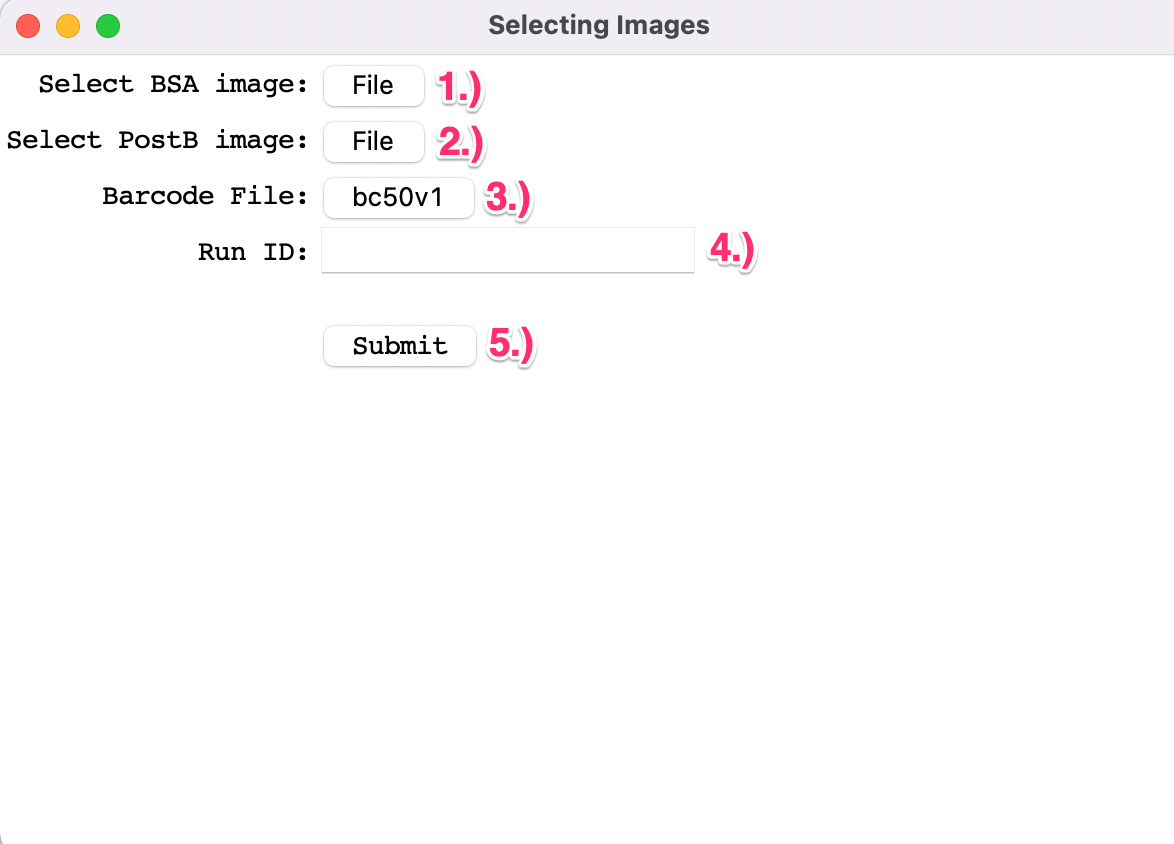
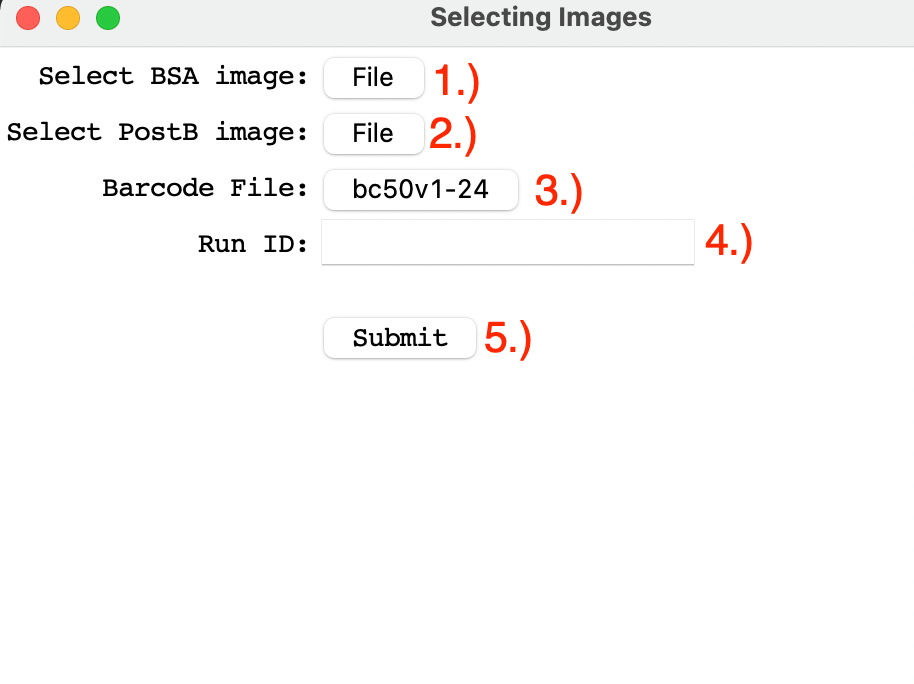
Added barcode section

diff --git a/docs/_build/html/searchindex.js b/docs/_build/html/searchindex.js
@@ -1,1 +1,1 @@
-Search.setIndex({"docnames": ["ExampleWalkthrough", "ImageConfiguration", "Installation", "OpeningFolder", "Overview", "ROICharacterization", "SpatialFolder", "Thresholding", "index"], "filenames": ["ExampleWalkthrough.rst", "ImageConfiguration.rst", "Installation.rst", "OpeningFolder.rst", "Overview.rst", "ROICharacterization.rst", "SpatialFolder.rst", "Thresholding.rst", "index.rst"], "titles": ["Guided Example", "Image Configuration", "Installation", "Loading Tissue images", "Overview", "Characterizing Region of Interest", "Utilizing Spatial Folder", "Thresholding", "Welcome to AtlasXbrowser\u2019s Documentation!"], "terms": {"To": [0, 2, 3, 5, 7], "begin": [0, 1, 3, 4], "imag": [0, 4, 5, 6, 7, 8], "process": [0, 1, 3, 4, 5, 6, 7, 8], "navig": [0, 1, 2, 3, 5, 6, 7], "top": [0, 3, 4, 5], "left": [0, 2, 3, 6], "screen": [0, 1, 3, 5, 7], "click": [0, 1, 5, 6], "file": [0, 2, 3, 6], "Then": [0, 3], "select": [0, 1, 3, 5, 6, 7], "onc": [0, 1, 2, 3, 4, 5, 6, 7], "popup": [0, 3, 5], "ha": [0, 1, 4, 5, 6, 7], "appear": [0, 3, 5], "first": [0, 3], "row": [0, 3, 4, 5, 6], "labl": [], "bsa": [0, 3, 4, 5, 6], "directori": [0, 2, 3, 6], "your": [0, 1, 2, 5, 6], "folder": [0, 4, 5, 8], "second": [0, 3], "PostB": [], "from": [0, 1, 2, 3, 4, 5, 6, 7], "same": [0, 3, 5], "enter": [0, 6, 8], "uniqu": [0, 4, 5, 6], "id": [0, 3], "you": [0, 2, 5], "want": [0, 2, 3, 5, 6], "associ": [0, 3, 4], "thi": [0, 1, 2, 3, 4, 5, 6, 7], "particular": [0, 3, 4], "run": [0, 3, 4, 7, 8], "submit": [0, 3], "bottom": 0, "pop": [0, 3], "up": [0, 2, 3], "window": [0, 2, 3], "now": [0, 1, 3], "should": [0, 2, 3, 5], "displai": [0, 5, 6], "browser": [0, 1, 3, 5, 6], "shown": [0, 1, 3, 4, 5], "below": [0, 2, 3, 4, 5, 7], "activ": [0, 1, 2, 7, 8], "crop": [0, 6, 8], "aciv": [], "within": [0, 1, 3, 4, 5, 6, 7], "section": [0, 1, 3, 4, 5, 7], "right": [0, 1, 3, 4, 5, 7], "drag": [0, 1, 5], "corner": [0, 1, 3, 5, 6], "squar": [0, 1, 3, 5], "includ": [0, 4, 5, 6], "entir": [0, 1], "region": [0, 3, 4, 7, 8], "interest": [0, 3, 4, 6, 8], "defin": [0, 5], "green": [], "stain": [0, 4, 5, 8], "line": [0, 1], "The": [0, 1, 3, 4, 5, 6, 7], "box": [0, 1, 5], "been": [0, 1, 3, 4, 5, 6], "expand": 0, "roi": [0, 1, 3, 4, 6, 8], "stretch": 0, "some": 0, "extra": 0, "buffer": 0, "room": 0, "confirm": [0, 1, 5, 7], "tab": [0, 1, 3, 5, 6, 7], "we": [0, 1, 2, 3, 5, 7], "have": [0, 3, 4, 5], "opportun": [], "rotat": [0, 3, 6, 8], "necessari": [2, 4], "For": [2, 5], "ar": [0, 1, 3, 4, 5, 6, 7], "requir": [0, 1, 2, 3], "howev": [0, 6], "harm": 0, "us": [0, 1, 2, 3, 4, 5, 6, 7, 8], "button": [0, 1, 3, 5, 7], "thei": [3, 4, 5, 6], "can": [0, 1, 2, 3, 4, 5, 6, 7], "alwai": 0, "work": [4, 5], "re": [0, 5, 6], "orient": [0, 1, 3, 5, 6], "back": [4, 5, 6], "its": 0, "origin": [0, 6], "state": [0, 5, 6], "If": [0, 2, 5], "necissari": [], "follow": [0, 2, 3, 4, 6], "mani": [5, 7], "time": [], "desir": [0, 1, 3, 5, 7], "90": 1, "degre": [1, 6], "counter": 1, "clockwis": 1, "proce": [0, 3], "pixel": [0, 5, 6, 7], "threshold": [0, 4, 5, 6, 8], "step": [0, 1, 2, 3, 4, 5, 6, 7], "under": [0, 1, 5, 6, 7], "adapt": [0, 4, 5, 7], "upon": [1, 3, 5, 6], "adap": [], "theshold": [], "portion": [], "black": [4, 5, 7], "white": [4, 5, 7], "version": [2, 4, 6], "seen": 4, "abov": [1, 3, 4, 5, 7], "load": [0, 1, 4, 8], "onto": 4, "slider": [0, 7], "label": [0, 1, 3, 6], "blocksiz": [0, 6, 7], "c": [0, 2, 6, 7], "creat": [0, 2, 3, 4, 5, 6], "maxim": 0, "gradient": [0, 7], "between": [0, 1, 7], "light": [0, 7], "dark": 0, "experi": [0, 3, 4, 5], "differ": [0, 1, 3, 7], "valu": [0, 6, 7], "see": [0, 2, 3], "how": [0, 3, 4, 5, 7], "high": [0, 6], "low": [0, 6], "each": [0, 3, 4, 5, 6, 7], "affect": 0, "an": [0, 2, 3, 4, 5, 6, 7], "set": [0, 3, 5, 6], "which": [0, 3, 4, 5, 6, 7], "produc": [0, 7], "good": [0, 7], "contrast": [0, 7], "configur": [0, 3, 7, 8], "locat": [0, 3, 6, 8], "unlik": 0, "when": [0, 5, 6, 7], "previous": 0, "here": [0, 2, 4, 6], "must": [0, 3, 5, 6, 7], "precis": 0, "about": [0, 4, 5, 6, 8], "determin": [0, 7], "red": [0, 1, 5], "rectangl": [0, 5], "border": 0, "In": [0, 1, 3, 5, 6, 7], "order": [0, 1, 3, 6, 7], "indifi": [], "user": [0, 3, 4, 5, 6, 8], "outsid": [0, 2, 5], "fluoresc": [0, 4, 5, 8], "note": [0, 1, 3, 5], "dye": [0, 3, 5], "being": [0, 1, 5, 7], "through": [0, 3, 4, 5, 6], "channel": [0, 3, 4, 5], "chip": [0, 1, 3, 4, 5], "optim": [0, 7], "placement": [0, 5], "directli": [0, 6, 7], "contain": [0, 1, 3, 4, 5, 6], "properli": [0, 1, 2, 5, 7], "place": [0, 4, 5], "notic": [0, 3], "inclu": [], "check": [0, 2, 5], "whether": [0, 6, 7], "specifi": [0, 6], "previou": [0, 5], "valid": [0, 5], "view": [0, 6], "tixel": [0, 4, 6, 7, 8], "correspond": [0, 3, 4, 5, 6, 7], "align": [0, 5], "overlai": [0, 8], "side": [0, 1, 2, 4, 5, 7], "hypothet": 0, "ensur": [0, 2, 3, 5], "outer": [0, 5], "both": [0, 1, 3, 4, 5, 6], "horizont": [0, 4, 5], "vertic": [0, 4, 5], "allow": [0, 1, 3, 4, 5, 6], "edit": 0, "chosen": [0, 6], "also": [0, 1, 3, 4], "over": [0, 5], "On": [0, 4, 5], "off": [0, 1, 4, 5, 6, 7], "tissu": [0, 4, 5, 6, 7, 8], "At": 0, "point": [0, 3, 4, 5], "grid": [0, 5, 6, 7], "either": [0, 5, 7], "fill": [0, 5], "remain": 0, "clear": [0, 3, 5], "what": [0, 4, 5, 6], "current": [0, 2, 3], "classif": [0, 4, 5, 7], "atlasxbrows": [0, 1, 3, 4, 5, 6], "made": [0, 3, 5, 6], "base": [0, 5, 7], "biolog": [0, 4, 7], "abl": [0, 4, 6], "review": 0, "decis": [0, 6], "chang": [0, 1, 3, 5, 6], "them": [0, 1, 5], "fit": 0, "one": [0, 1, 5, 6, 7], "option": [0, 1, 5, 6], "list": [0, 2], "flip": [0, 5, 6], "whatev": [0, 3], "drawn": [0, 5], "everi": [0, 5], "all": [0, 2, 5, 6, 7], "turn": [0, 7], "confid": [0, 5], "color": [0, 3, 5, 6, 7], "accur": 0, "mean": [0, 5, 7], "cover": [0, 5], "spatial": [0, 3, 4, 5, 8], "make": [1, 3, 4, 5, 7], "comput": 1, "demand": 1, "futur": 1, "less": 1, "intens": [1, 7], "unnecessari": 1, "excess": 1, "out": 1, "1": [1, 3, 6], "A": [1, 3, 4, 5, 6, 7], "2": [1, 3, 6, 7], "mous": [1, 5], "encapsul": 1, "enclos": [1, 3], "neon": [1, 5], "leav": 1, "space": [1, 4], "s": [1, 6], "unexpand": 1, "forc": 1, "itself": 1, "kept": 1, "why": 1, "rest": [1, 7], "shap": [], "move": 1, "due": 1, "criteria": 1, "possibl": [1, 5, 7], "goe": 1, "As": [1, 3, 4, 5, 7], "long": 1, "outlin": 1, "area": 1, "fine": 1, "still": 1, "3": [1, 2, 3, 6], "microscop": [1, 3, 5], "captur": [], "result": [1, 4, 5, 7], "variou": 1, "program": 1, "reconfigur": [], "wa": [2, 3, 4, 5, 6], "util": 8, "four": [5, 6], "describ": 7, "pleas": 2, "most": [2, 6], "recent": 2, "releas": 2, "http": 2, "github": 2, "com": 2, "atlasxom": [2, 8], "execut": 2, "tgz": 2, "avail": [1, 2, 4], "mac": 2, "osx": 2, "prefer": 2, "python": 2, "applic": 2, "sourc": 2, "code": 2, "open": [2, 6], "termin": 2, "where": [2, 3, 7], "command": 2, "git": 2, "clone": 2, "usag": 2, "7": 2, "well": [2, 4, 5, 6], "multipl": [2, 5, 6], "packag": [2, 4], "reason": [2, 5], "highli": [2, 3], "reccomend": [], "virtual": 2, "enviro": [], "specifc": [], "anaconda": 2, "distribut": 2, "system": 2, "guid": [2, 4, 7, 8], "isntal": [], "conda": 2, "latest": 2, "updat": 2, "With": [2, 4, 6], "date": 2, "name": [2, 3], "py37": 2, "ani": [2, 3, 4, 5, 6], "deactiv": 2, "proper": [2, 3, 5], "return": 2, "xx": 2, "case": 2, "repeat": 2, "until": 2, "envior": [], "reactiv": 2, "forg": 2, "scipi": 2, "seaborn": 2, "tifffil": 2, "jsbeautifi": 2, "panda": 2, "pillow": 2, "matplotlib": 2, "fastai": 2, "opencv": 2, "headless": 2, "machin": 2, "cd": 2, "pull": 2, "readi": 2, "abrows": 2, "py": 2, "import": 3, "done": [3, 5, 7], "b": [3, 4, 5], "overlap": [3, 4, 5], "much": [3, 5, 7], "easier": [3, 5], "flow": [3, 4, 5], "bovin": 3, "serum": 3, "albumin": 3, "solut": 3, "mix": 3, "outmost": 3, "These": [3, 4, 6], "visual": [3, 5, 6], "veri": 3, "two": [3, 4, 6], "correct": 3, "taken": [3, 4, 5, 6, 7], "remov": [3, 4], "epifluoresc": [3, 4, 5], "brightfield": [3, 4, 5], "underli": [3, 5], "easi": [3, 4], "identif": 3, "mai": 3, "occur": [3, 4], "prepar": [3, 4], "while": [3, 4, 6], "store": [3, 6], "new": 3, "pertain": 3, "relev": [3, 6], "gener": [3, 4, 6], "d223_postb_bsa": 3, "tif": 3, "d223_postb": 3, "titl": [3, 6], "barcod": [3, 4, 5, 6], "e": [], "g": [], "bc50v1": 3, "txt": [], "4": [1, 3, 6], "data": [3, 4], "textbox": 3, "5": 3, "without": [3, 4], "error": 3, "continu": 3, "dissapear": [], "main": 3, "save": [3, 6], "built": 4, "help": 4, "facilit": [4, 8], "aspect": 4, "dbit": [4, 5], "seq": [4, 5], "workflow": 4, "take": [4, 7], "brightfi": [], "output": 4, "10x": 4, "visium": 4, "format": 4, "incorpor": 4, "bioinformat": 4, "analysi": 4, "figur": [4, 5], "sequenc": [4, 5], "paralel": [], "identifi": [0, 4, 5, 6], "binar": [4, 5, 7], "predict": [4, 5, 6], "do": [4, 6, 7], "site": [4, 5, 7], "delin": [4, 6], "coupl": 4, "inform": [4, 5, 6], "preform": [1, 4], "exampl": [4, 8], "umap": 4, "cluster": 4, "read": [4, 5, 6], "obtain": 4, "count": [4, 6], "conjunct": 4, "adjust": [4, 5], "consid": 4, "qualiti": [4, 6], "control": [4, 6, 7], "distanc": 4, "adher": 4, "sampl": 4, "glass": 4, "slide": [4, 5, 7], "clamp": 4, "ontop": 7, "dna": 4, "down": 4, "molecular": 4, "umi": [4, 6], "x": [4, 5, 6], "coordin": [4, 5, 6], "across": 4, "y": [4, 5, 6], "infer": [4, 7], "pictur": 4, "after": [4, 6], "plane": 4, "flown": [4, 5], "had": 4, "map": [4, 5, 6], "spot": 4, "call": [4, 5], "basi": 4, "encod": 4, "neither": 4, "reliant": 4, "other": 4, "metadata": [4, 6, 8], "boundari": 4, "assai": [], "like": 4, "techniqu": 4, "so": [4, 7], "research": 4, "interrog": 4, "omic": [4, 8], "lose": 4, "context": 4, "our": 4, "goal": 4, "commun": 4, "insight": 4, "avaiabl": [], "larger": [4, 7], "group": 4, "peopl": 4, "stage": 5, "narrow": 5, "preserv": 5, "combin": 5, "dure": [4, 5, 6], "knowledg": 5, "come": 5, "serv": 5, "fluid": 5, "hand": 5, "newli": [5, 6], "close": 5, "edg": 5, "dy": 5, "fulli": 5, "design": [5, 6, 7], "practic": 5, "ideal": [5, 7], "exactli": 5, "circl": [3, 5], "indic": [5, 6], "show": 5, "again": 5, "last": 5, "expect": 5, "discern": 5, "observ": [5, 7], "One": 5, "wai": 5, "column": [5, 6], "layer": 5, "just": 5, "automat": [3, 5], "examin": [5, 8], "modifi": 5, "atlasbrow": [], "individu": 5, "formerli": 5, "vice": 5, "versa": 5, "encompass": 5, "background": 5, "along": [5, 6], "pattern": 5, "amend": 5, "forth": 5, "bw": 5, "next": 5, "find": [1, 6, 7], "content": 6, "item": 6, "resolut": 6, "tissue_lowres_imag": 6, "png": 6, "tissue_highres_imag": 6, "respect": [1, 6], "json": 6, "form": 6, "number": [6, 7], "height": 6, "specif": [2, 6, 8], "tissue_positions_list": 6, "csv": 6, "start": 6, "0": [6, 7], "found": 6, "index": 6, "function": 6, "limit": 6, "manual": 6, "raw": 6, "tissue_positions_list_log_umi_gen": 6, "ident": 6, "accompani": 6, "three": [5, 6], "choos": 6, "featur": 6, "accord": 6, "log": 6, "transform": 6, "gene": 6, "total": 6, "said": 6, "were": 6, "minim": 6, "pure": 7, "convert": 7, "vs": 7, "given": 7, "understand": 7, "rememb": 7, "digit": 7, "essenti": 7, "discret": 7, "8": 7, "possibilit": [], "255": 7, "rang": 7, "assumpt": 7, "part": 7, "darker": 7, "than": 7, "outcom": 7, "everyth": 7, "els": 7, "those": 7, "calcul": 7, "local": 7, "divid": 7, "t": 7, "i_l": 7, "refer": 7, "size": 7, "variabl": 7, "account": 7, "too": 7, "larg": 7, "factor": 7, "non": 7, "uniform": 7, "small": 7, "doe": [0, 7], "enough": 7, "somewhat": 7, "overfit": 7, "constant": 7, "subtract": 7, "regul": 7, "far": 7, "reciev": [], "decreas": 7, "more": [7, 8], "thu": 7, "classifi": 7, "risk": 7, "convers": 7, "smaller": 7, "caus": 7, "proport": 7, "lead": 7, "misclassifi": 7, "truli": 7, "graphic": 8, "interfac": 8, "learn": 8, "overview": 8, "instal": 8, "download": 8, "manag": 8, "depend": 8, "tune": 8, "paramet": [6, 8], "character": 8, "custom": 3, "default": 3, "revert": 3, "rotate_left": [], "rotate_right": [], "befor": 4, "There": 5, "backgronud": [], "righthand": [], "greyscal": [], "fluoescent": [], "fluores": [], "rotateright": [], "rotateleft": [], "correpond": [], "width": [], "400": [], "200": [], "reconfigr": [], "support": 1, "45": 1, "radio": 1, "angl": 1, "counterclockwis": [], "postb": [0, 3, 5], "shape": 1, "standard": 6, "tissue_position_list": 6, "except": 6, "ad": 6, "overlaid": [0, 5], "recommend": [2, 3], "environ": 2, "disappear": 3, "parallel": 4, "receiv": 7}, "objects": {}, "objtypes": {}, "objnames": {}, "titleterms": {"guid": 0, "exampl": [0, 7], "imag": [1, 3], "configur": 1, "crop": 1, "rotat": 1, "instal": 2, "download": 2, "manag": 2, "depend": 2, "run": 2, "atlasxbrows": [2, 8], "load": [3, 6], "tissu": 3, "specif": 3, "fluoresc": 3, "stain": 3, "folder": [3, 6], "enter": 3, "metadata": 3, "overview": 4, "character": 5, "region": 5, "interest": 5, "locat": 5, "roi": 5, "overlai": 5, "tixel": 5, "aciv": [], "util": 6, "spatial": 6, "examin": 6, "threshold": 7, "tune": 7, "paramet": 7, "welcom": 8, "s": 8, "document": 8, "section": 8, "activ": 5}, "envversion": {"sphinx.domains.c": 2, "sphinx.domains.changeset": 1, "sphinx.domains.citation": 1, "sphinx.domains.cpp": 6, "sphinx.domains.index": 1, "sphinx.domains.javascript": 2, "sphinx.domains.math": 2, "sphinx.domains.python": 3, "sphinx.domains.rst": 2, "sphinx.domains.std": 2, "sphinx": 56}})
+Search.setIndex({"docnames": ["ExampleWalkthrough", "ImageConfiguration", "Installation", "OpeningFolder", "Overview", "ROICharacterization", "SpatialFolder", "Thresholding", "index"], "filenames": ["ExampleWalkthrough.rst", "ImageConfiguration.rst", "Installation.rst", "OpeningFolder.rst", "Overview.rst", "ROICharacterization.rst", "SpatialFolder.rst", "Thresholding.rst", "index.rst"], "titles": ["Guided Example", "Image Configuration", "Installation", "Loading Tissue images", "Overview", "Characterizing Region of Interest", "Utilizing Spatial Folder", "Thresholding", "Welcome to AtlasXbrowser\u2019s Documentation!"], "terms": {"To": [0, 2, 3, 5, 7], "begin": [0, 1, 3, 4], "imag": [0, 4, 5, 6, 7, 8], "process": [0, 1, 3, 4, 5, 6, 7, 8], "navig": [0, 1, 2, 3, 5, 6, 7], "top": [0, 3, 4, 5], "left": [0, 2, 3, 6], "screen": [0, 1, 3, 5, 7], "click": [0, 1, 5, 6], "file": [0, 2, 6, 8], "Then": [0, 3], "select": [0, 1, 5, 6, 7, 8], "onc": [0, 1, 2, 3, 4, 5, 6, 7], "popup": [0, 3, 5], "ha": [0, 1, 3, 4, 5, 6, 7], "appear": [0, 3, 5], "first": [0, 3], "row": [0, 3, 4, 5, 6], "labl": [], "bsa": [0, 3, 4, 5, 6], "directori": [0, 2, 3, 6], "your": [0, 1, 2, 5, 6], "folder": [0, 4, 5, 8], "second": [0, 3], "PostB": [], "from": [0, 1, 2, 3, 4, 5, 6, 7], "same": [0, 3, 5], "enter": [0, 6, 8], "uniqu": [0, 4, 5, 6], "id": [0, 3], "you": [0, 2, 5], "want": [0, 2, 3, 5, 6], "associ": [0, 3, 4], "thi": [0, 1, 2, 3, 4, 5, 6, 7], "particular": [0, 3, 4], "run": [0, 3, 4, 7, 8], "submit": [0, 3], "bottom": 0, "pop": [0, 3], "up": [0, 2, 3], "window": [0, 2, 3], "now": [0, 1, 3], "should": [0, 2, 3, 5], "displai": [0, 5, 6], "browser": [0, 1, 3, 5, 6], "shown": [0, 1, 3, 4, 5], "below": [0, 2, 3, 4, 5, 7], "activ": [0, 1, 2, 7, 8], "crop": [0, 6, 8], "aciv": [], "within": [0, 1, 3, 4, 5, 6, 7], "section": [0, 1, 3, 4, 5, 7], "right": [0, 1, 3, 4, 5, 7], "drag": [0, 1, 5], "corner": [0, 1, 3, 5, 6], "squar": [0, 1, 3, 5], "includ": [0, 3, 4, 5, 6], "entir": [0, 1], "region": [0, 3, 4, 7, 8], "interest": [0, 3, 4, 6, 8], "defin": [0, 5], "green": [], "stain": [0, 4, 5, 8], "line": [0, 1], "The": [0, 1, 3, 4, 5, 6, 7], "box": [0, 1, 3, 5], "been": [0, 1, 3, 4, 5, 6], "expand": 0, "roi": [0, 1, 3, 4, 6, 8], "stretch": 0, "some": 0, "extra": 0, "buffer": 0, "room": 0, "confirm": [0, 1, 5, 7], "tab": [0, 1, 3, 5, 6, 7], "we": [0, 1, 2, 3, 5, 7], "have": [0, 3, 4, 5], "opportun": [], "rotat": [0, 3, 6, 8], "necessari": [2, 4], "For": [2, 5], "ar": [0, 1, 3, 4, 5, 6, 7], "requir": [0, 1, 2, 3], "howev": [0, 6], "harm": 0, "us": [0, 1, 2, 3, 4, 5, 6, 7, 8], "button": [0, 1, 3, 5, 7], "thei": [3, 4, 5, 6], "can": [0, 1, 2, 3, 4, 5, 6, 7], "alwai": 0, "work": [4, 5], "re": [0, 5, 6], "orient": [0, 1, 3, 5, 6], "back": [4, 5, 6], "its": 0, "origin": [0, 3, 6], "state": [0, 5, 6], "If": [0, 2, 5], "necissari": [], "follow": [0, 2, 3, 4, 6], "mani": [5, 7], "time": [], "desir": [0, 1, 3, 5, 7], "90": 1, "degre": [1, 6], "counter": 1, "clockwis": 1, "proce": [0, 3], "pixel": [0, 5, 6, 7], "threshold": [0, 4, 5, 6, 8], "step": [0, 1, 2, 3, 4, 5, 6, 7], "under": [0, 1, 5, 6, 7], "adapt": [0, 4, 5, 7], "upon": [1, 3, 5, 6], "adap": [], "theshold": [], "portion": [], "black": [4, 5, 7], "white": [4, 5, 7], "version": [2, 4, 6], "seen": 4, "abov": [1, 3, 4, 5, 7], "load": [0, 1, 4, 8], "onto": 4, "slider": [0, 7], "label": [0, 1, 3, 6], "blocksiz": [0, 6, 7], "c": [0, 2, 6, 7], "creat": [0, 2, 3, 4, 5, 6], "maxim": 0, "gradient": [0, 7], "between": [0, 1, 7], "light": [0, 7], "dark": 0, "experi": [0, 3, 4, 5], "differ": [0, 1, 3, 7], "valu": [0, 6, 7], "see": [0, 2, 3], "how": [0, 3, 4, 5, 7], "high": [0, 6], "low": [0, 6], "each": [0, 3, 4, 5, 6, 7], "affect": 0, "an": [0, 2, 3, 4, 5, 6, 7], "set": [0, 3, 5, 6], "which": [0, 3, 4, 5, 6, 7], "produc": [0, 7], "good": [0, 7], "contrast": [0, 7], "configur": [0, 3, 7, 8], "locat": [0, 3, 6, 8], "unlik": 0, "when": [0, 3, 5, 6, 7], "previous": 0, "here": [0, 2, 4, 6], "must": [0, 3, 5, 6, 7], "precis": 0, "about": [0, 3, 4, 5, 6, 8], "determin": [0, 7], "red": [0, 1, 5], "rectangl": [0, 5], "border": 0, "In": [0, 1, 3, 5, 6, 7], "order": [0, 1, 3, 6, 7], "indifi": [], "user": [0, 3, 4, 5, 6, 8], "outsid": [0, 2, 5], "fluoresc": [0, 4, 5, 8], "note": [0, 1, 3, 5], "dye": [0, 3, 5], "being": [0, 1, 3, 5, 7], "through": [0, 3, 4, 5, 6], "channel": [0, 3, 4, 5], "chip": [0, 1, 3, 4, 5], "optim": [0, 7], "placement": [0, 5], "directli": [0, 6, 7], "contain": [0, 1, 3, 4, 5, 6], "properli": [0, 1, 2, 5, 7], "place": [0, 4, 5], "notic": [0, 3], "inclu": [], "check": [0, 2, 5], "whether": [0, 6, 7], "specifi": [0, 3, 6], "previou": [0, 5], "valid": [0, 5], "view": [0, 3, 6], "tixel": [0, 4, 6, 7, 8], "correspond": [0, 3, 4, 5, 6, 7], "align": [0, 5], "overlai": [0, 8], "side": [0, 1, 2, 4, 5, 7], "hypothet": 0, "ensur": [0, 2, 3, 5], "outer": [0, 5], "both": [0, 1, 3, 4, 5, 6], "horizont": [0, 4, 5], "vertic": [0, 4, 5], "allow": [0, 1, 3, 4, 5, 6], "edit": 0, "chosen": [0, 6], "also": [0, 1, 3, 4], "over": [0, 5], "On": [0, 4, 5], "off": [0, 1, 4, 5, 6, 7], "tissu": [0, 4, 5, 6, 7, 8], "At": 0, "point": [0, 3, 4, 5], "grid": [0, 5, 6, 7], "either": [0, 5, 7], "fill": [0, 5], "remain": 0, "clear": [0, 3, 5], "what": [0, 4, 5, 6], "current": [0, 2, 3], "classif": [0, 4, 5, 7], "atlasxbrows": [0, 1, 3, 4, 5, 6], "made": [0, 3, 5, 6], "base": [0, 5, 7], "biolog": [0, 4, 7], "abl": [0, 4, 6], "review": 0, "decis": [0, 6], "chang": [0, 1, 3, 5, 6], "them": [0, 1, 5], "fit": 0, "one": [0, 1, 5, 6, 7], "option": [0, 1, 3, 5, 6], "list": [0, 2, 3], "flip": [0, 3, 5, 6], "whatev": [0, 3], "drawn": [0, 5], "everi": [0, 5], "all": [0, 2, 5, 6, 7], "turn": [0, 7], "confid": [0, 5], "color": [0, 3, 5, 6, 7], "accur": 0, "mean": [0, 5, 7], "cover": [0, 5], "spatial": [0, 3, 4, 5, 8], "make": [1, 3, 4, 5, 7], "comput": 1, "demand": 1, "futur": 1, "less": 1, "intens": [1, 7], "unnecessari": 1, "excess": 1, "out": 1, "1": [1, 3, 6], "A": [1, 3, 4, 5, 6, 7], "2": [1, 3, 6, 7], "mous": [1, 5], "encapsul": 1, "enclos": [1, 3], "neon": [1, 5], "leav": 1, "space": [1, 4], "s": [1, 6], "unexpand": 1, "forc": 1, "itself": 1, "kept": 1, "why": 1, "rest": [1, 7], "shap": [], "move": 1, "due": 1, "criteria": 1, "possibl": [1, 5, 7], "goe": 1, "As": [1, 3, 4, 5, 7], "long": 1, "outlin": 1, "area": 1, "fine": 1, "still": 1, "3": [1, 2, 3, 6], "microscop": [1, 3, 5], "captur": [], "result": [1, 4, 5, 7], "variou": 1, "program": 1, "reconfigur": [], "wa": [2, 3, 4, 5, 6], "util": [3, 8], "four": [5, 6], "describ": 7, "pleas": [2, 3], "most": [2, 6], "recent": 2, "releas": 2, "http": 2, "github": [2, 3], "com": 2, "atlasxom": [2, 3, 8], "execut": 2, "tgz": 2, "avail": [1, 2, 4], "mac": 2, "osx": 2, "prefer": 2, "python": 2, "applic": 2, "sourc": 2, "code": 2, "open": [2, 6], "termin": 2, "where": [2, 3, 7], "command": 2, "git": 2, "clone": 2, "usag": 2, "7": 2, "well": [2, 4, 5, 6], "multipl": [2, 5, 6], "packag": [2, 4], "reason": [2, 5], "highli": [2, 3], "reccomend": [], "virtual": 2, "enviro": [], "specifc": [], "anaconda": 2, "distribut": 2, "system": 2, "guid": [2, 4, 7, 8], "isntal": [], "conda": 2, "latest": 2, "updat": 2, "With": [2, 4, 6], "date": 2, "name": [2, 3], "py37": 2, "ani": [2, 3, 4, 5, 6], "deactiv": 2, "proper": [2, 3, 5], "return": 2, "xx": 2, "case": 2, "repeat": 2, "until": 2, "envior": [], "reactiv": 2, "forg": 2, "scipi": 2, "seaborn": 2, "tifffil": 2, "jsbeautifi": 2, "panda": 2, "pillow": 2, "matplotlib": 2, "fastai": 2, "opencv": 2, "headless": 2, "machin": 2, "cd": 2, "pull": 2, "readi": 2, "abrows": 2, "py": 2, "import": 3, "done": [3, 5, 7], "b": [3, 4, 5], "overlap": [3, 4, 5], "much": [3, 5, 7], "easier": [3, 5], "flow": [3, 4, 5], "bovin": 3, "serum": 3, "albumin": 3, "solut": 3, "mix": 3, "outmost": 3, "These": [3, 4, 6], "visual": [3, 5, 6], "veri": 3, "two": [3, 4, 6], "correct": 3, "taken": [3, 4, 5, 6, 7], "remov": [3, 4], "epifluoresc": [3, 4, 5], "brightfield": [3, 4, 5], "underli": [3, 5], "easi": [3, 4], "identif": 3, "mai": 3, "occur": [3, 4], "prepar": [3, 4], "while": [3, 4, 6], "store": [3, 6], "new": 3, "pertain": 3, "relev": [3, 6], "gener": [3, 4, 6], "d223_postb_bsa": 3, "tif": 3, "d223_postb": 3, "titl": [3, 6], "barcod": [4, 5, 6, 8], "e": [], "g": [], "bc50v1": 3, "txt": 3, "4": [1, 3, 6], "data": [3, 4], "textbox": [], "5": 3, "without": [3, 4], "error": 3, "continu": 3, "dissapear": [], "main": 3, "save": [3, 6], "built": 4, "help": 4, "facilit": [4, 8], "aspect": 4, "dbit": [3, 4, 5], "seq": [3, 4, 5], "workflow": 4, "take": [4, 7], "brightfi": [], "output": 4, "10x": 4, "visium": 4, "format": 4, "incorpor": 4, "bioinformat": 4, "analysi": 4, "figur": [4, 5], "sequenc": [3, 4, 5], "paralel": [], "identifi": [0, 4, 5, 6], "binar": [4, 5, 7], "predict": [4, 5, 6], "do": [4, 6, 7], "site": [4, 5, 7], "delin": [4, 6], "coupl": 4, "inform": [4, 5, 6], "preform": [1, 4], "exampl": [4, 8], "umap": 4, "cluster": 4, "read": [4, 5, 6], "obtain": 4, "count": [4, 6], "conjunct": 4, "adjust": [4, 5], "consid": 4, "qualiti": [4, 6], "control": [4, 6, 7], "distanc": 4, "adher": 4, "sampl": 4, "glass": 4, "slide": [4, 5, 7], "clamp": 4, "ontop": 7, "dna": 4, "down": 4, "molecular": 4, "umi": [4, 6], "x": [4, 5, 6], "coordin": [4, 5, 6], "across": 4, "y": [4, 5, 6], "infer": [4, 7], "pictur": 4, "after": [4, 6], "plane": 4, "flown": [4, 5], "had": 4, "map": [4, 5, 6], "spot": 4, "call": [4, 5], "basi": 4, "encod": 4, "neither": 4, "reliant": 4, "other": 4, "metadata": [4, 6, 8], "boundari": 4, "assai": [], "like": 4, "techniqu": 4, "so": [3, 4, 7], "research": 4, "interrog": 4, "omic": [4, 8], "lose": 4, "context": 4, "our": 4, "goal": 4, "commun": 4, "insight": 4, "avaiabl": [], "larger": [4, 7], "group": 4, "peopl": 4, "stage": 5, "narrow": 5, "preserv": 5, "combin": 5, "dure": [3, 4, 5, 6], "knowledg": 5, "come": 5, "serv": 5, "fluid": 5, "hand": 5, "newli": [5, 6], "close": 5, "edg": 5, "dy": 5, "fulli": 5, "design": [5, 6, 7], "practic": 5, "ideal": [5, 7], "exactli": 5, "circl": [3, 5], "indic": [3, 5, 6], "show": 5, "again": 5, "last": 5, "expect": 5, "discern": 5, "observ": [5, 7], "One": 5, "wai": 5, "column": [5, 6], "layer": 5, "just": 5, "automat": [3, 5], "examin": [5, 8], "modifi": 5, "atlasbrow": [], "individu": 5, "formerli": 5, "vice": 5, "versa": 5, "encompass": 5, "background": 5, "along": [5, 6], "pattern": 5, "amend": 5, "forth": [3, 5], "bw": 5, "next": 5, "find": [1, 6, 7], "content": [3, 6], "item": 6, "resolut": 6, "tissue_lowres_imag": 6, "png": 6, "tissue_highres_imag": 6, "respect": [1, 6], "json": 6, "form": 6, "number": [6, 7], "height": 6, "specif": [2, 6, 8], "tissue_positions_list": 6, "csv": [3, 6], "start": 6, "0": [6, 7], "found": 6, "index": 6, "function": 6, "limit": 6, "manual": 6, "raw": 6, "tissue_positions_list_log_umi_gen": 6, "ident": 6, "accompani": 6, "three": [5, 6], "choos": 6, "featur": 6, "accord": 6, "log": 6, "transform": 6, "gene": 6, "total": 6, "said": 6, "were": 6, "minim": 6, "pure": 7, "convert": 7, "vs": 7, "given": [3, 7], "understand": 7, "rememb": 7, "digit": 7, "essenti": 7, "discret": 7, "8": 7, "possibilit": [], "255": 7, "rang": 7, "assumpt": 7, "part": [3, 7], "darker": 7, "than": 7, "outcom": 7, "everyth": 7, "els": 7, "those": 7, "calcul": 7, "local": 7, "divid": 7, "t": 7, "i_l": 7, "refer": 7, "size": 7, "variabl": 7, "account": 7, "too": 7, "larg": 7, "factor": 7, "non": 7, "uniform": 7, "small": 7, "doe": [0, 7], "enough": 7, "somewhat": 7, "overfit": 7, "constant": 7, "subtract": 7, "regul": 7, "far": 7, "reciev": [], "decreas": 7, "more": [3, 7, 8], "thu": 7, "classifi": 7, "risk": 7, "convers": 7, "smaller": 7, "caus": 7, "proport": 7, "lead": 7, "misclassifi": 7, "truli": 7, "graphic": 8, "interfac": 8, "learn": [3, 8], "overview": 8, "instal": 8, "download": 8, "manag": 8, "depend": [3, 8], "tune": 8, "paramet": [6, 8], "character": 8, "custom": 3, "default": 3, "revert": 3, "rotate_left": [], "rotate_right": [], "befor": 4, "There": 5, "backgronud": [], "righthand": [], "greyscal": [], "fluoescent": [], "fluores": [], "rotateright": [], "rotateleft": [], "correpond": [], "width": [], "400": [], "200": [], "reconfigr": [], "support": 1, "45": 1, "radio": 1, "angl": 1, "counterclockwis": [], "postb": [0, 3, 5], "shape": 1, "standard": [3, 6], "tissue_position_list": [3, 6], "except": 6, "ad": 6, "overlaid": [0, 5], "recommend": [2, 3], "environ": 2, "disappear": 3, "parallel": 4, "receiv": 7, "text": 3, "match": 3, "wetlab": 3, "barcode_fil": 3, "repo": 3, "spatialfold": [], "rst": [], "_spatialfold": [], "_": [], "document": 3, "yale_barcodes50": 3, "v1": 3, "v4": 3, "initi": 3, "paper": 3, "publish": 3, "feng": [], "lab": 3, "v2": 3, "rel": 3, "v3": 3, "bc50v": 3, "24": 3, "atac": 3, "replac": 3, "batch": 3, "bv50v1": 3, "fang": [], "fan": 3, "yale": 3}, "objects": {}, "objtypes": {}, "objnames": {}, "titleterms": {"guid": 0, "exampl": [0, 7], "imag": [1, 3], "configur": 1, "crop": 1, "rotat": 1, "instal": 2, "download": 2, "manag": 2, "depend": 2, "run": 2, "atlasxbrows": [2, 8], "load": [3, 6], "tissu": 3, "specif": 3, "fluoresc": 3, "stain": 3, "folder": [3, 6], "enter": 3, "metadata": 3, "overview": 4, "character": 5, "region": 5, "interest": 5, "locat": 5, "roi": 5, "overlai": 5, "tixel": 5, "aciv": [], "util": 6, "spatial": 6, "examin": 6, "threshold": 7, "tune": 7, "paramet": 7, "welcom": 8, "s": 8, "document": 8, "section": 8, "activ": 5, "barcod": 3, "file": 3, "select": 3, "spatialfold": []}, "envversion": {"sphinx.domains.c": 2, "sphinx.domains.changeset": 1, "sphinx.domains.citation": 1, "sphinx.domains.cpp": 6, "sphinx.domains.index": 1, "sphinx.domains.javascript": 2, "sphinx.domains.math": 2, "sphinx.domains.python": 3, "sphinx.domains.rst": 2, "sphinx.domains.std": 2, "sphinx": 56}})

diff --git a/docs/_build/html/OpeningFolder.html b/docs/_build/html/OpeningFolder.html
@@ -46,6 +46,7 @@
 <li class="toctree-l2"><a class="reference internal" href="#image-specifications-and-fluorescent-staining">Image Specifications and Fluorescent Staining</a></li>
 <li class="toctree-l2"><a class="reference internal" href="#image-folder-specifications">Image Folder Specifications</a></li>
 <li class="toctree-l2"><a class="reference internal" href="#loading-image-and-entering-metadata">Loading Image and Entering Metadata</a></li>
+<li class="toctree-l2"><a class="reference internal" href="#barcode-file-selection">Barcode File Selection</a></li>
 </ul>
 </li>
 <li class="toctree-l1"><a class="reference internal" href="ImageConfiguration.html">Image Configuration</a></li>
@@ -141,15 +142,42 @@ new folder pertaining this particular run which will store these two images, and
 <p><strong>1.)</strong> Select <strong>File</strong> in the first row of the pop-up titled, “Select BSA Image”. Then navigate to the directory
 of the image folder, and select the BSA image.</p>
 <p><strong>2.)</strong> Select <strong>File</strong> in the second row, labeled “Select PostB Image”. Navigate to the image folder, and select the PostB image.</p>
-<p><strong>3.)</strong> This button is used to select a custom barcode file. Automatically the default bc50v1 barcode file is selected. To Change this, select the currently labeled <strong>bc50v1</strong> and navigate to the desired custom barcode file.</p>
+<p><strong>3.)</strong> This button is used to select a custom barcode file. Automatically the default bc50v1-24 barcode file is selected. To Change this, select the currently labeled <strong>bc50v1-24</strong> and navigate to the desired custom barcode file.</p>
 <blockquote>
 <div><img alt="_images/image_processing_revert.png" src="_images/image_processing_revert.png" />
-<p>Upon selecting a custom barcode file, if the user wants to revert to the default bc50v1 file, they can select the <strong>Revert to bc50v1</strong> circled above.</p>
+<p>Upon selecting a custom barcode file, if the user wants to revert to the default bc50v1-24 file, they can select the <strong>Revert to bc50v1-24</strong> circled above.</p>
 </div></blockquote>
-<p><strong>4.)</strong> Enter the desired name of the run (or data set) in the textbox.</p>
+<p><strong>4.)</strong> Enter the desired name of the run (or data set) in the text box.</p>
 <p><strong>5.)</strong> Once the images have been loaded in without error, and the run ID entered, select <strong>Submit</strong> to continue with the image processing.</p>
 <p>Upon selecting <strong>Submit</strong>, the popup should disappear and the BSA image should be loaded into the main window of the Browser.</p>
 <p>This metadata will be saved and stored in the associated Spatial Folder for this experiment. Now we can proceed to configuring the image.</p>
+</section>
+<section id="barcode-file-selection">
+<h2>Barcode File Selection<a class="headerlink" href="#barcode-file-selection" title="Permalink to this heading"></a></h2>
+<p>As noted above, during the image loading process, the user is given the option to specify a custom barcode file to be used in AtlasXbrowser. The barcode file specified at this step is used when
+generating the <em>tissue_position_list.csv</em> file, as part of the spatial folder. To learn more about the contents of the spatial folder, please see the <strong>Utilizing Spatial Folder</strong> section of the documentation.</p>
+<p>To view the barcode files that are included in the github repo, navigate to the “barcode_files”.</p>
+<figure class="align-default">
+<img alt="_images/barcode_file_options.png" src="_images/barcode_file_options.png" />
+</figure>
+<p>Shown above are the contents of the barcodes folder within the github repo of AtlasXbrowser.</p>
+<ul class="simple">
+<li><p><strong>yale_barcodes50</strong> v1-v4: These are the barcodes used in the initial DBiT Paper published by The Fan Lab. The v1 - v4 indicate the orientation of these sequences.</p>
+<ul>
+<li><p>v1: Standard Orientation</p></li>
+<li><p>v2: Flipping the B chip barcodes relative to v1</p></li>
+<li><p>v3: Flipping of the A chip barcodes relative to v1</p></li>
+<li><p>v4: Flipping of both the A and B chip barcodes relative to v1</p></li>
+</ul>
+</li>
+<li><p><strong>bc50v[1-2]-24</strong>: These are the barcodes currently being used and recommended by AtlasXomics for ATAC seq. Two of the B chip barcodes have been replaced from the original Yale barcode batch.</p>
+<ul>
+<li><p>The bv50v1-24.txt file is the default barcode file within AtlasXbrowser.</p></li>
+<li><p>The v1 and v2 orientations of these barcode files match that listed above. Where v2 has flipped B chip barcodes relative to v1 and so forth.</p></li>
+</ul>
+</li>
+</ul>
+<p>Depending on the specific barcodes used in the DBiT process in the wetlab, any of these files can be selected during the image loading step.</p>
 </section>
 </section>
 

diff --git a/docs/_build/html/index.html b/docs/_build/html/index.html
@@ -92,6 +92,7 @@ Learn more about <a class="reference external" href="https://www.atlasxomics.com
 <li class="toctree-l2"><a class="reference internal" href="OpeningFolder.html#image-specifications-and-fluorescent-staining">Image Specifications and Fluorescent Staining</a></li>
 <li class="toctree-l2"><a class="reference internal" href="OpeningFolder.html#image-folder-specifications">Image Folder Specifications</a></li>
 <li class="toctree-l2"><a class="reference internal" href="OpeningFolder.html#loading-image-and-entering-metadata">Loading Image and Entering Metadata</a></li>
+<li class="toctree-l2"><a class="reference internal" href="OpeningFolder.html#barcode-file-selection">Barcode File Selection</a></li>
 </ul>
 </li>
 <li class="toctree-l1"><a class="reference internal" href="ImageConfiguration.html">Image Configuration</a><ul>

diff --git a/docs/OpeningFolder.rst b/docs/OpeningFolder.rst
@@ -57,16 +57,42 @@ of the image folder, and select the BSA image.
 
 **2.)** Select **File** in the second row, labeled "Select PostB Image". Navigate to the image folder, and select the PostB image.
 
-**3.)** This button is used to select a custom barcode file. Automatically the default bc50v1 barcode file is selected. To Change this, select the currently labeled **bc50v1** and navigate to the desired custom barcode file.
+**3.)** This button is used to select a custom barcode file. Automatically the default bc50v1-24 barcode file is selected. To Change this, select the currently labeled **bc50v1-24** and navigate to the desired custom barcode file.
 
     .. image:: /images/image_processing_revert.png
 
-    Upon selecting a custom barcode file, if the user wants to revert to the default bc50v1 file, they can select the **Revert to bc50v1** circled above.
+    Upon selecting a custom barcode file, if the user wants to revert to the default bc50v1-24 file, they can select the **Revert to bc50v1-24** circled above.
 
-**4.)** Enter the desired name of the run (or data set) in the textbox.
+**4.)** Enter the desired name of the run (or data set) in the text box.
 
 **5.)** Once the images have been loaded in without error, and the run ID entered, select **Submit** to continue with the image processing.
 
 Upon selecting **Submit**, the popup should disappear and the BSA image should be loaded into the main window of the Browser.
 
 This metadata will be saved and stored in the associated Spatial Folder for this experiment. Now we can proceed to configuring the image.
+
+Barcode File Selection
+######################
+
+As noted above, during the image loading process, the user is given the option to specify a custom barcode file to be used in AtlasXbrowser. The barcode file specified at this step is used when 
+generating the *tissue_position_list.csv* file, as part of the spatial folder. To learn more about the contents of the spatial folder, please see the **Utilizing Spatial Folder** section of the documentation.
+
+To view the barcode files that are included in the github repo, navigate to the "barcode_files".
+
+.. figure:: /images/barcode_file_options.png
+
+Shown above are the contents of the barcodes folder within the github repo of AtlasXbrowser.
+
+* **yale_barcodes50** v1-v4: These are the barcodes used in the initial DBiT Paper published by The Fan Lab. The v1 - v4 indicate the orientation of these sequences.
+
+  * v1: Standard Orientation
+  * v2: Flipping the B chip barcodes relative to v1
+  * v3: Flipping of the A chip barcodes relative to v1
+  * v4: Flipping of both the A and B chip barcodes relative to v1
+
+* **bc50v[1-2]-24**: These are the barcodes currently being used and recommended by AtlasXomics for ATAC seq. Two of the B chip barcodes have been replaced from the original Yale barcode batch.
+
+  * The bv50v1-24.txt file is the default barcode file within AtlasXbrowser.
+  * The v1 and v2 orientations of these barcode files match that listed above. Where v2 has flipped B chip barcodes relative to v1 and so forth.
+
+Depending on the specific barcodes used in the DBiT process in the wetlab, any of these files can be selected during the image loading step.
